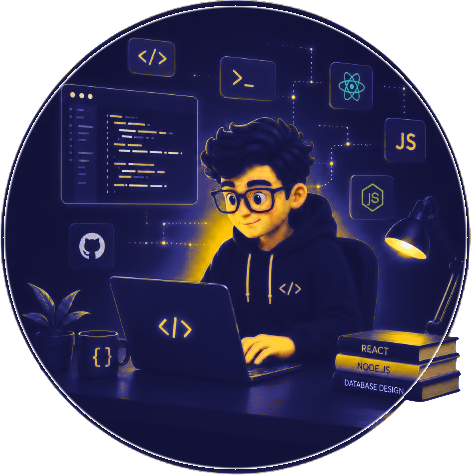
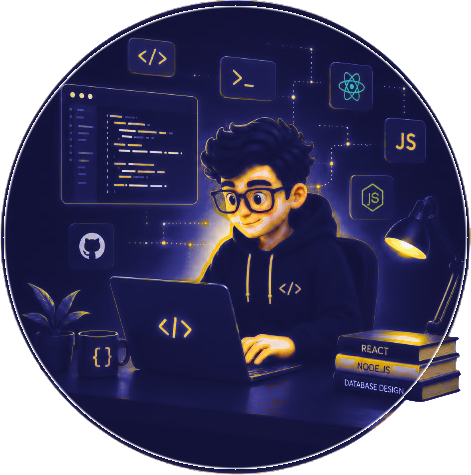
About: the Syspoint story since 2010; calmer Software Clinic picture
- About tells the story from the 2010 repair clinic to today: the
  client's own paragraph as the lead, the narrative beside a "Since 2010"
  heading, a "How we grew" timeline, four "What hasn't changed" values
  and a closing call to action. Story, timeline, values and closing are
  all editable in Website → About.
- Software Clinic illustration: the big gold halo behind the developer
  is now indigo, gold kept only on sharp details (code symbols, lamp,
  book spines); the extra gold blur behind the circle is removed.

Claude-Session: https://claude.ai/code/session_01V4AdRnaABNZnaBTZbbiHrp

diff --git a/public/assets/css/style.css b/public/assets/css/style.css
@@ -1362,7 +1362,6 @@ main:has(.page-hero) .page-hero + .section { padding-top: 64px; }
 .clinic-chips { list-style: none; display: flex; flex-wrap: wrap; gap: 8px; margin: 22px 0 0; padding: 0; }
 .clinic-chips li { padding: 6px 12px; border-radius: 999px; border: 1px solid rgba(247, 203, 30, 0.45); color: #fff; font-size: 0.82rem; background: rgba(247, 203, 30, 0.08); }
 .clinic-art { position: relative; display: flex; justify-content: center; }
-.clinic-art::before { content: ""; position: absolute; inset: 8% 6%; border-radius: 50%; background: radial-gradient(circle, rgba(247, 203, 30, 0.28), transparent 65%); filter: blur(30px); z-index: -1; }
 .clinic-art picture { display: block; width: min(100%, 460px); }
 .clinic-art img { display: block; width: 100%; height: auto; filter: drop-shadow(0 24px 48px rgba(0, 0, 0, 0.5)); }
 
@@ -1376,3 +1375,41 @@ main:has(.page-hero) .page-hero + .section { padding-top: 64px; }
     .about-collage { height: 260px; gap: 10px; }
 }
 .clinic-hero h1 { font-size: clamp(2.2rem, 4vw, 3.25rem); }
+
+/* About — story, timeline, values, closing call to action */
+.about-story-grid { display: grid; grid-template-columns: minmax(0, 0.85fr) minmax(0, 1.15fr); gap: 56px; align-items: start; }
+.about-story-head { position: sticky; top: 96px; }
+.about-story-head h2 { font-size: clamp(1.8rem, 3.2vw, 2.6rem); line-height: 1.12; margin: 6px 0 28px; }
+.about-since { display: inline-flex; align-items: baseline; gap: 10px; padding: 14px 20px; border-radius: 16px; background: var(--brand-midnight); color: #fff; }
+.about-since span { font: 600 0.75rem var(--font-mono); text-transform: uppercase; letter-spacing: 0.08em; color: #C9CAE8; }
+.about-since strong { font: 900 2.2rem/1 var(--font-display); color: var(--brand-gold); }
+.about-story-body p { font-size: 1.02rem; line-height: 1.75; margin: 0 0 1.1em; color: var(--color-text); }
+.about-story-body p:first-child { font-size: 1.2rem; line-height: 1.6; font-weight: 500; color: var(--brand-midnight); padding-left: 18px; border-left: 4px solid var(--brand-gold); }
+.about-story-body strong { color: var(--brand-midnight); }
+.about-timeline { list-style: none; margin: 28px 0 0; padding: 0; display: grid; grid-template-columns: repeat(auto-fit, minmax(190px, 1fr)); gap: 0; counter-reset: step; }
+.about-timeline li { position: relative; padding: 30px 22px 0 0; }
+.about-timeline li::before { content: ""; position: absolute; top: 8px; left: 0; right: 0; height: 2px; background: var(--color-border); }
+.about-timeline li::after { content: ""; position: absolute; top: 2px; left: 0; width: 14px; height: 14px; border-radius: 50%; background: var(--brand-indigo); box-shadow: 0 0 0 4px var(--color-bg-soft); }
+.about-timeline li:first-child::after, .about-timeline li:last-child::after { background: var(--brand-gold); }
+.about-timeline-label { display: block; font: 600 0.75rem var(--font-mono); text-transform: uppercase; letter-spacing: 0.08em; color: var(--brand-indigo); margin-bottom: 6px; }
+.about-timeline strong { display: block; font: 900 1.1rem/1.25 var(--font-display); color: var(--brand-midnight); margin-bottom: 6px; }
+.about-timeline p { margin: 0; font-size: 0.92rem; color: var(--color-text-muted); }
+.about-values { display: grid; grid-template-columns: repeat(auto-fit, minmax(230px, 1fr)); gap: 18px; margin-top: 24px; }
+.about-value { padding: 24px; border-radius: 16px; border: 1px solid var(--color-border); background: var(--color-bg); transition: border-color 0.2s ease, transform 0.2s ease; }
+.about-value:hover { border-color: var(--brand-gold); transform: translateY(-2px); }
+.about-value-num { display: block; font: 600 0.8rem var(--font-mono); color: var(--brand-gold); margin-bottom: 14px; }
+.about-value strong { display: block; font: 900 1.15rem var(--font-display); color: var(--brand-midnight); margin-bottom: 8px; }
+.about-value p { margin: 0; font-size: 0.93rem; color: var(--color-text-muted); }
+.about-cta { display: flex; align-items: center; justify-content: space-between; gap: 28px; flex-wrap: wrap; padding: 40px 44px; border-radius: 22px; color: #fff; background: radial-gradient(ellipse 60% 120% at 0% 0%, rgba(52, 52, 138, 0.9), transparent 70%), #14143A; }
+.about-cta h2 { color: #fff; margin: 0 0 8px; }
+.about-cta p { margin: 0; color: rgba(255, 255, 255, 0.8); max-width: 52ch; }
+.about-cta-actions { display: flex; flex-wrap: wrap; gap: 12px; }
+@media (max-width: 860px) {
+    .about-story-grid { grid-template-columns: 1fr; gap: 24px; }
+    .about-story-head { position: static; }
+    .about-timeline { grid-template-columns: 1fr; }
+    .about-timeline li { padding: 0 0 26px 30px; }
+    .about-timeline li::before { top: 0; bottom: 0; left: 6px; right: auto; width: 2px; height: auto; }
+    .about-timeline li::after { top: 4px; }
+    .about-cta { padding: 28px 24px; }
+}

diff --git a/app/site_content.php b/app/site_content.php
@@ -113,17 +113,24 @@ function site_content(): array
             'home.visit_btn' => $f('Visit us — directions button', 'Get Directions →'),
         ]],
         'about' => ['label' => 'About', 'page' => 'about', 'intro' => '', 'fields' => [
-            'about.kicker' => $f('Hero — small line above the heading', 'About Syspoint'),
+            'about.kicker' => $f('Hero — small line above the heading', 'About Syspoint · Since 2010'),
             'about.title' => $f('Hero — heading', 'Everything tech,'),
             'about.title_highlight' => $f('Hero — heading, gold part', 'under one roof'),
-            'about.intro' => $f('Hero — intro', 'Computers you can trust, software that runs your business, a gaming lounge to unwind in and training that gets you hired — all at Awesome Plaza, Abuja.', 'textarea'),
+            'about.intro' => $f('Hero — intro', 'Since 2010, Syspoint has grown from a hardware repair clinic into a complete tech partner — software, virtual platforms, training, and a home for gamers in Abuja.', 'textarea'),
             'about.btn_primary' => $f('Hero — main button', 'Get in Touch'),
             'about.btn_secondary' => $f('Hero — second button', 'Our Story'),
             'about.photo_shop' => $f('Hero photo — Shop', 'assets/img/shop/hero-laptops.jpg', 'image'),
             'about.photo_gaming' => $f('Hero photo — Gaming', 'assets/img/gaming/ps5.jpg', 'image'),
             'about.photo_training' => $f('Hero photo — Training', 'assets/img/training/hero-student.jpg', 'image'),
-            'about.story_title' => $f('Story heading', 'Our Story'),
-            'about.body' => $f('Story', '<p>Syspoint brings together the tech essentials people and businesses actually need: computers and accessories you can trust, a software clinic that builds and deploys what your business is missing, a gaming lounge to unwind in, and hands-on training that turns beginners into job-ready talent.</p><p>This page is ready for the real story — edit it from the admin panel once it is live.</p>', 'html', 'Use the buttons for headings, bold, lists and links.'),
+            'about.story_title' => $f('Story — small label', 'Our Story'),
+            'about.story_heading' => $f('Story — heading', 'From one repair bench to a complete tech partner'),
+            'about.body' => $f('Story', '<p>Syspoint Solutions Consult Ltd began in 2010 as a dedicated hardware repair and maintenance clinic. Over the years, we have expanded our infrastructure to include software adaptation, virtual platform setups, and specialized training environments, becoming a comprehensive tech partner for modern organizations.</p><p>It started with a simple promise at the repair bench: tell people honestly what is wrong, fix it properly the first time, and stand behind the work. That promise brought customers back — and then it brought their bigger questions. Could we make their software fit the way they actually work? Could we set up the systems their teams log into every day? Could we train their people to get the most out of it all?</p><p>We said yes, and built the capability to deliver. The same team that once brought a single laptop back to life now adapts software to real business processes, sets up the virtual platforms that keep organisations connected, and runs hands-on training environments that turn beginners into job-ready talent. Banks, universities, polytechnics and medical centres trust us with the technology they depend on.</p><p>We also built a place for the people behind the screens. At Awesome Plaza, Apo Resettlement, Abuja, you will find our Gadget Store for genuine computers and accessories, the Syspoint Hub gaming lounge and VR arena, and our training centre — everything tech, under one roof.</p><p><strong>More than fifteen years on, the bench is still at the heart of what we do.</strong> Whether you need one laptop repaired or a whole department set up, you get the same care — and a partner who will still be here tomorrow.</p>', 'html', 'Use the buttons for headings, bold, lists and links.'),
+            'about.timeline_title' => $f('Timeline — heading', 'How we grew'),
+            'about.timeline' => $f('Timeline', "2010 | The repair clinic | We opened as a dedicated hardware repair and maintenance clinic — honest diagnosis, quality parts and work we stand behind.\nGrowth | Software adaptation | Clients asked for software that fits how they really work. We adapt, customise and deploy it.\nGrowth | Virtual platforms | We set up the virtual platforms and systems that keep teams connected and organisations running.\nGrowth | Training environments | Specialised training environments and internships that turn beginners into job-ready talent.\nToday | Everything tech, under one roof | Gadget Store, Software Clinic, the Syspoint Hub gaming lounge and IT training — one partner for it all.", 'textarea', 'One step per line: label | title | text'),
+            'about.values_title' => $f('Values — heading', 'What hasn’t changed'),
+            'about.values' => $f('Values', "Fix it right | Honest diagnosis and quality work the first time — the standard we set at the repair bench in 2010.\nSpeak plainly | We explain options and costs in plain language, so you can decide with confidence.\nStand behind it | Warranties, after-sales support and a team you can walk in and talk to.\nGrow with you | From one device to a whole organisation, our support scales as you grow.", 'textarea', 'One per line: title | text'),
+            'about.cta_title' => $f('Closing — heading', 'Let’s build what’s next'),
+            'about.cta_text' => $f('Closing — text', 'Need a repair, a new system or a team trained? Tell us what you are working on — we will take it from there.', 'textarea'),
         ]],
         'shop' => ['label' => 'Shop', 'page' => 'shop', 'intro' => 'Products and categories are managed in Store & Inventory.', 'fields' => [
             'shop.eyebrow' => $f('Hero — small heading', 'Discover. Shop. Upgrade.'),

diff --git a/app/views/pages/about.php b/app/views/pages/about.php
@@ -31,11 +31,69 @@ require __DIR__ . '/../partials/header.php';
     </div>
 </section>
 
-<section class="section" id="story">
-    <div class="container" style="max-width:760px;">
-        <?php if (site('about.story_title') !== ''): ?><span class="eyebrow"><?= e(site('about.story_title')) ?></span><?php endif; ?>
-        <div class="prose">
+<?php
+$split = fn(string $line) => array_map('trim', explode('|', $line));
+$timeline = array_map($split, site_list('about.timeline', "\n"));
+$values = array_map($split, site_list('about.values', "\n"));
+?>
+<section class="section about-story" id="story">
+    <div class="container about-story-grid">
+        <div class="about-story-head">
+            <?php if (site('about.story_title') !== ''): ?><span class="eyebrow"><?= e(site('about.story_title')) ?></span><?php endif; ?>
+            <h2><?= e(site('about.story_heading')) ?></h2>
+            <div class="about-since" aria-hidden="true"><span>Since</span><strong>2010</strong></div>
+        </div>
+        <div class="about-story-body">
             <?= site_sanitize_html(site('about.body')) ?>
+        </div>
+    </div>
+</section>
+
+<?php if ($timeline): ?>
+<section class="section section-soft about-timeline-section">
+    <div class="container">
+        <h2><?= e(site('about.timeline_title')) ?></h2>
+        <ol class="about-timeline">
+            <?php foreach ($timeline as $step): ?>
+                <li>
+                    <span class="about-timeline-label"><?= e($step[0] ?? '') ?></span>
+                    <strong><?= e($step[1] ?? '') ?></strong>
+                    <?php if (!empty($step[2])): ?><p><?= e($step[2]) ?></p><?php endif; ?>
+                </li>
+            <?php endforeach; ?>
+        </ol>
+    </div>
+</section>
+<?php endif; ?>
+
+<?php if ($values): ?>
+<section class="section">
+    <div class="container">
+        <h2><?= e(site('about.values_title')) ?></h2>
+        <div class="about-values">
+            <?php foreach ($values as $i => $val): ?>
+                <div class="about-value">
+                    <span class="about-value-num"><?= sprintf('%02d', $i + 1) ?></span>
+                    <strong><?= e($val[0] ?? '') ?></strong>
+                    <?php if (!empty($val[1])): ?><p><?= e($val[1]) ?></p><?php endif; ?>
+                </div>
+            <?php endforeach; ?>
+        </div>
+    </div>
+</section>
+<?php endif; ?>
+
+<section class="section" style="padding-top:0;">
+    <div class="container">
+        <div class="about-cta">
+            <div>
+                <h2><?= e(site('about.cta_title')) ?></h2>
+                <p><?= e(site('about.cta_text')) ?></p>
+            </div>
+            <div class="about-cta-actions">
+                <a href="<?= path('contact') ?>" class="btn btn-primary"><?= e(site('about.btn_primary')) ?></a>
+                <a href="<?= path('software-clinic') ?>" class="btn btn-outline btn-outline-light">Software Clinic</a>
+            </div>
         </div>
     </div>
 </section>
